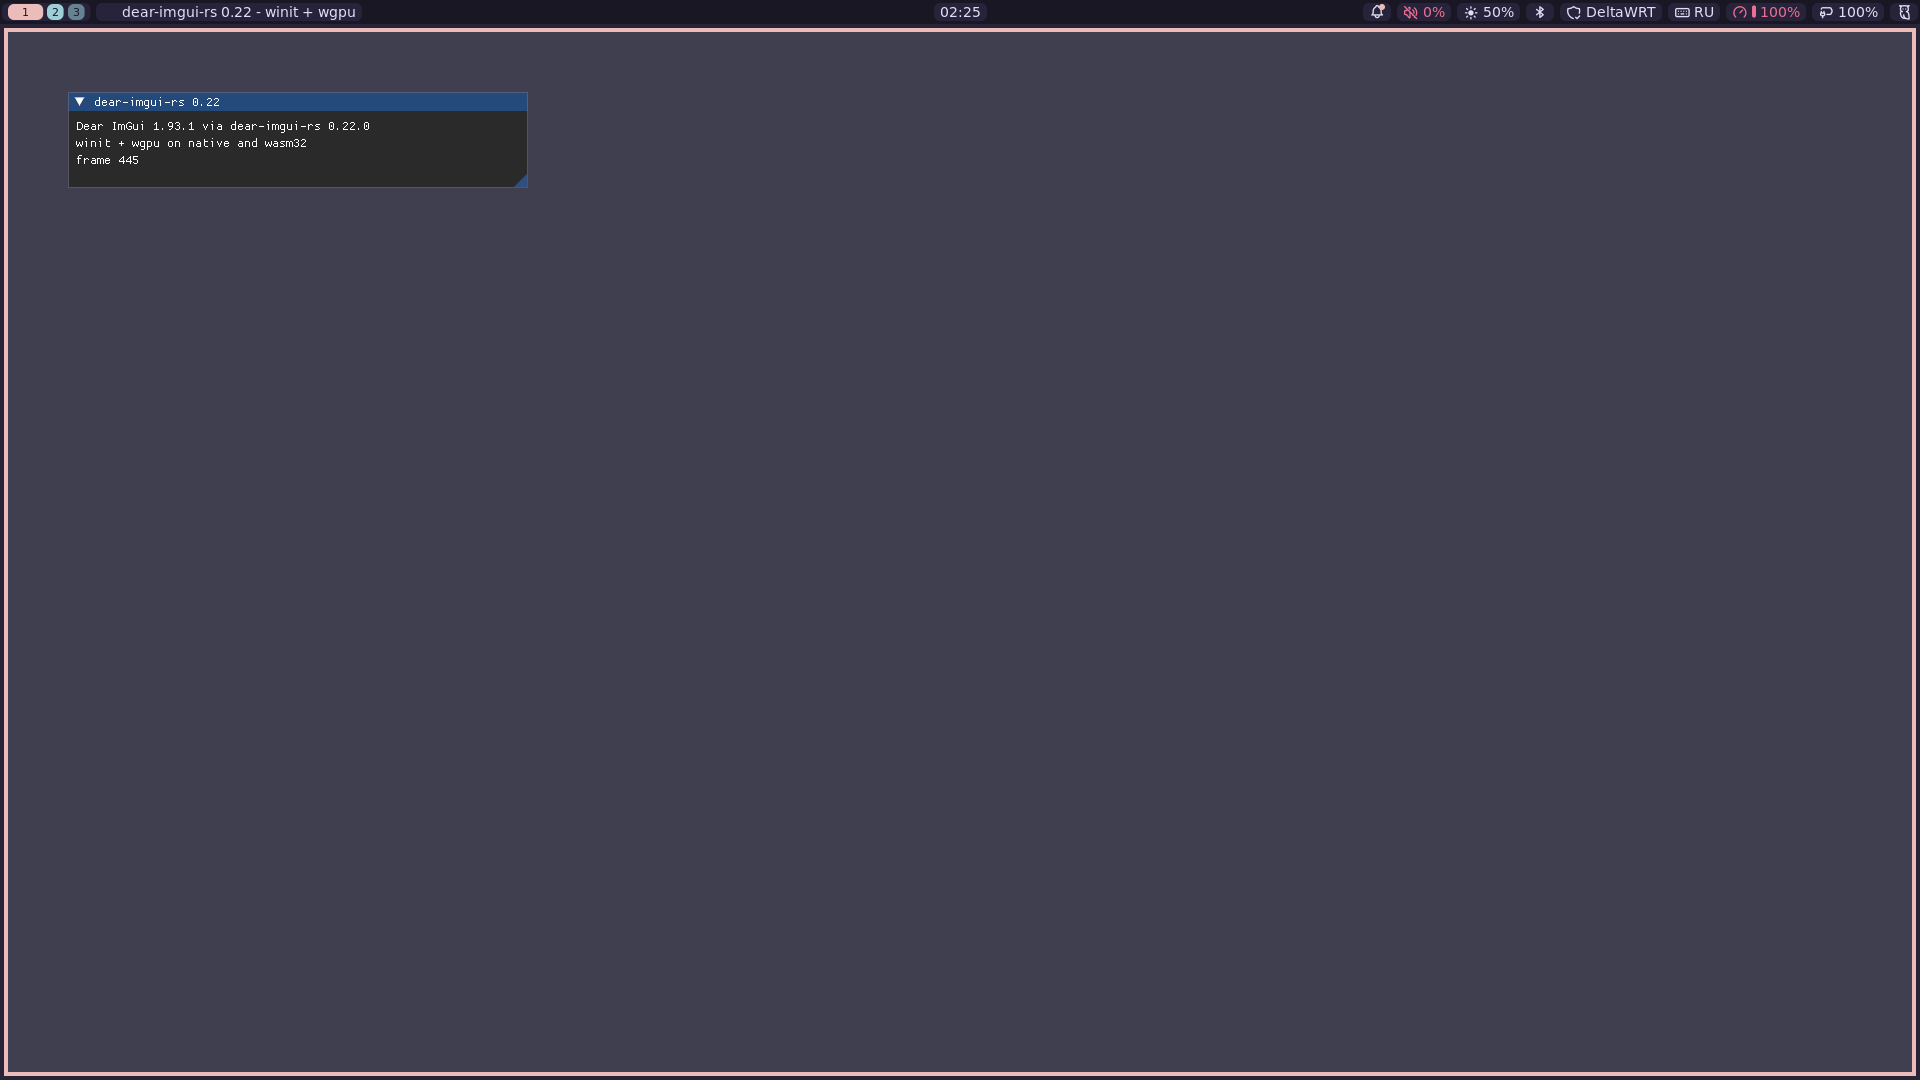
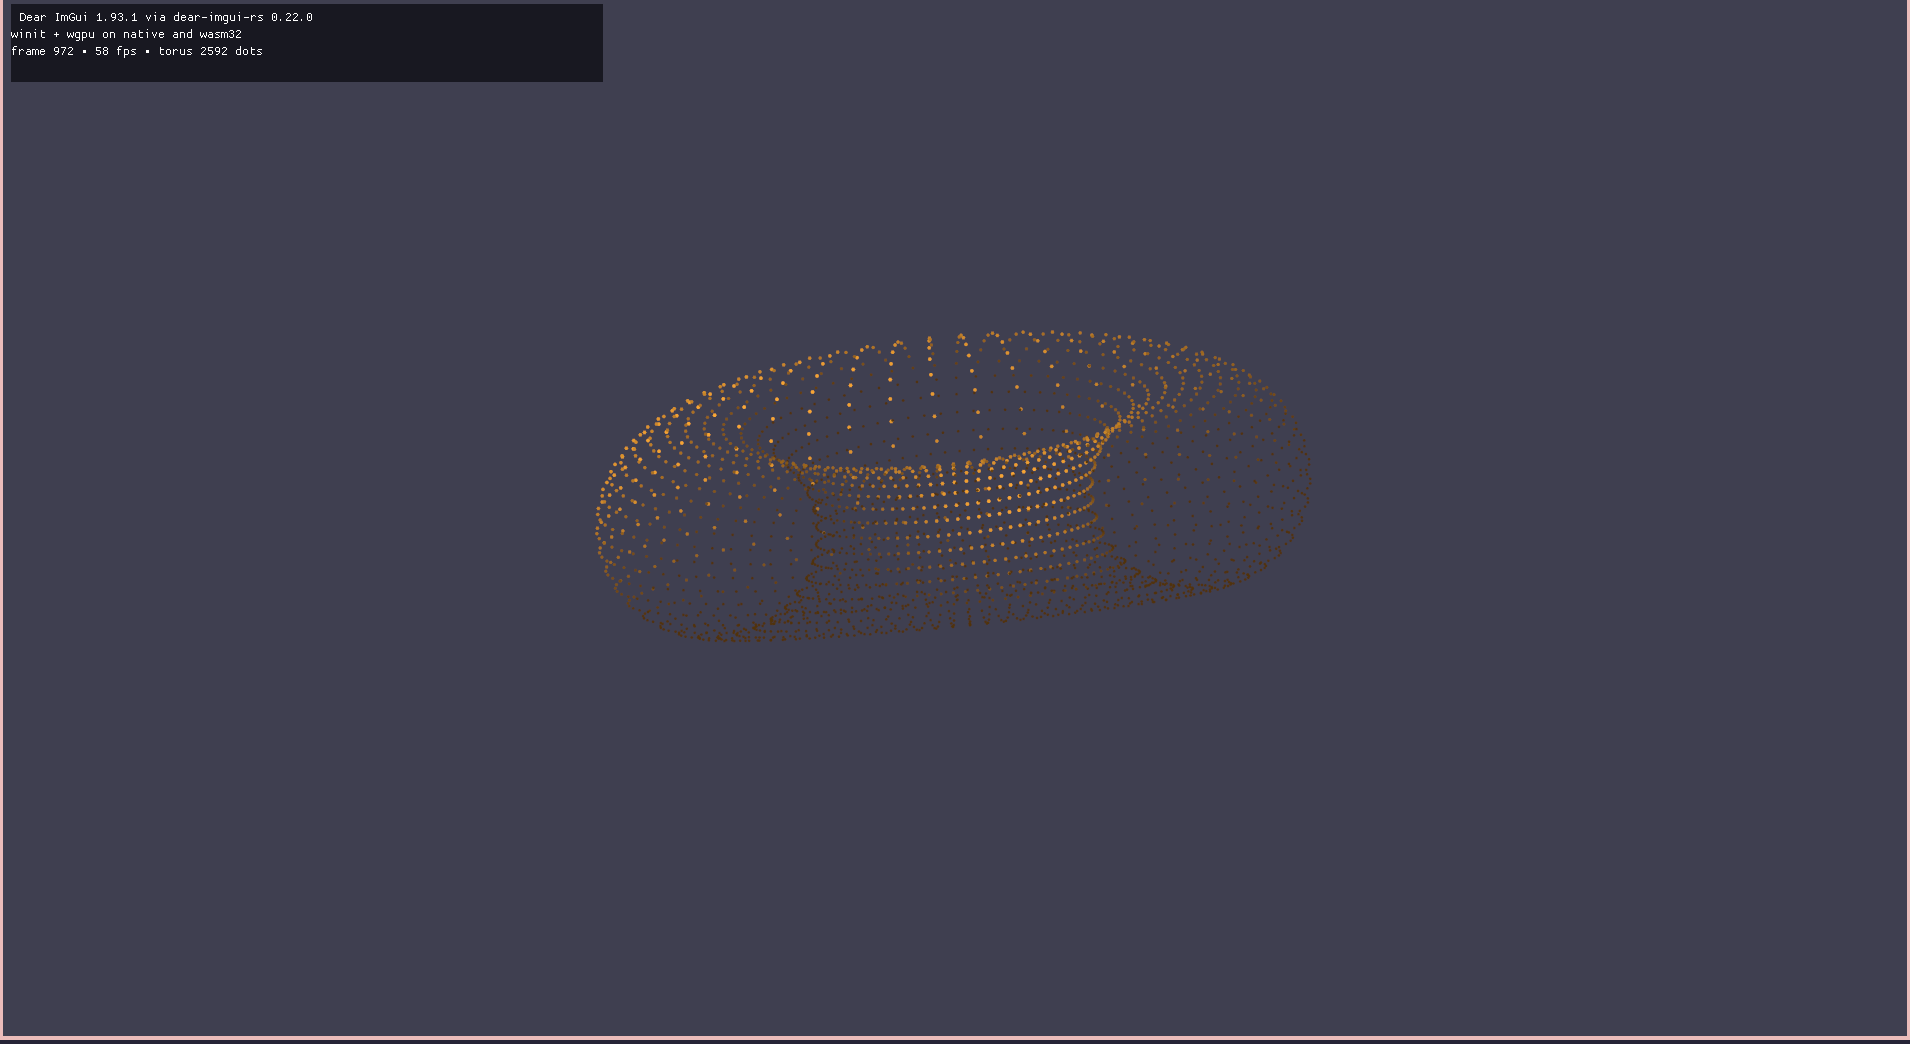
feat: spinning torus render test on native and wasm draw lists

Changed region(s): [[0.0, 0.0, 1.0, 1.0], [0.3089, 0.3372, 0.6487, 0.613], [0.4016, 0.3372, 0.4325, 0.3678]]

diff --git a/src/lib.rs b/src/lib.rs
@@ -12,7 +12,7 @@ use web_time::Instant;
 #[cfg(not(target_arch = "wasm32"))]
 use std::time::Instant;
 
-use dear_imgui_rs::Context;
+use dear_imgui_rs::{Color, Condition, Context, Ui, WindowFlags};
 use dear_imgui_wgpu::wgpu;
 use dear_imgui_wgpu::{FramebufferExtent, WgpuInitInfo, WgpuRenderer};
 use dear_imgui_winit::{HiDpiMode, WinitPlatform};
@@ -23,6 +23,132 @@ use winit::event_loop::{ActiveEventLoop, EventLoop};
 use winit::window::{Window, WindowId};
 
 type AnyError = Box<dyn std::error::Error>;
+
+const TORUS_MAJOR: f32 = 1.0;
+const TORUS_MINOR: f32 = 0.42;
+const TORUS_THETA: usize = 72;
+const TORUS_PHI: usize = 36;
+
+#[cfg(test)]
+fn torus_point(theta: f32, phi: f32) -> [f32; 3] {
+    let ring = TORUS_MAJOR + TORUS_MINOR * phi.cos();
+    [ring * theta.cos(), TORUS_MINOR * phi.sin(), ring * theta.sin()]
+}
+
+#[cfg(test)]
+fn torus_normal(theta: f32, phi: f32) -> [f32; 3] {
+    [
+        phi.cos() * theta.cos(),
+        phi.sin(),
+        phi.cos() * theta.sin(),
+    ]
+}
+
+#[cfg(test)]
+fn rotate_x([x, y, z]: [f32; 3], angle: f32) -> [f32; 3] {
+    let (sin, cos) = angle.sin_cos();
+    [x, y * cos - z * sin, y * sin + z * cos]
+}
+
+#[cfg(test)]
+fn rotate_y([x, y, z]: [f32; 3], angle: f32) -> [f32; 3] {
+    let (sin, cos) = angle.sin_cos();
+    [x * cos + z * sin, y, -x * sin + z * cos]
+}
+
+#[inline]
+fn rotate_x_cached([x, y, z]: [f32; 3], sin: f32, cos: f32) -> [f32; 3] {
+    [x, y * cos - z * sin, y * sin + z * cos]
+}
+
+#[inline]
+fn rotate_y_cached([x, y, z]: [f32; 3], sin: f32, cos: f32) -> [f32; 3] {
+    [x * cos + z * sin, y, -x * sin + z * cos]
+}
+
+/// Spinning torus rendered through the ImGui draw list. This exercises the full
+/// draw-list -> renderer path on both native and wasm without extra GPU pipelines.
+fn draw_torus(ui: &Ui, time: f32) {
+    let [width, height] = ui.io().display_size();
+    if width < 64.0 || height < 64.0 {
+        return;
+    }
+    let center = [width * 0.5, height * 0.5];
+    let scale = width.min(height) * 0.30;
+    let (rot_x_sin, rot_x_cos) = (time * 0.55).sin_cos();
+    let (rot_y_sin, rot_y_cos) = (time * 0.9).sin_cos();
+    let light = [-0.45_f32, 0.55, -0.70];
+    let theta_table: Vec<(f32, f32)> = (0..TORUS_THETA)
+        .map(|index| {
+            let theta = index as f32 / TORUS_THETA as f32 * std::f32::consts::TAU;
+            theta.sin_cos()
+        })
+        .collect();
+    let phi_table: Vec<(f32, f32)> = (0..TORUS_PHI)
+        .map(|index| {
+            let phi = index as f32 / TORUS_PHI as f32 * std::f32::consts::TAU;
+            phi.sin_cos()
+        })
+        .collect();
+
+    let mut dots = Vec::with_capacity(TORUS_THETA * TORUS_PHI);
+    for &(theta_sin, theta_cos) in &theta_table {
+        for &(phi_sin, phi_cos) in &phi_table {
+            let point = rotate_y_cached(
+                rotate_x_cached(
+                    [
+                        (TORUS_MAJOR + TORUS_MINOR * phi_cos) * theta_cos,
+                        TORUS_MINOR * phi_sin,
+                        (TORUS_MAJOR + TORUS_MINOR * phi_cos) * theta_sin,
+                    ],
+                    rot_x_sin,
+                    rot_x_cos,
+                ),
+                rot_y_sin,
+                rot_y_cos,
+            );
+            let normal = rotate_y_cached(
+                rotate_x_cached(
+                    [phi_cos * theta_cos, phi_sin, phi_cos * theta_sin],
+                    rot_x_sin,
+                    rot_x_cos,
+                ),
+                rot_y_sin,
+                rot_y_cos,
+            );
+            let perspective = 3.2 / (point[2] + 4.2);
+            let light_dot = (normal[0] * light[0]
+                + normal[1] * light[1]
+                + normal[2] * light[2])
+                .max(0.0);
+            let shade = 0.32 + 0.68 * light_dot.powf(1.3);
+            dots.push((
+                [
+                    center[0] + point[0] * perspective * scale,
+                    center[1] - point[1] * perspective * scale,
+                ],
+                point[2],
+                shade,
+            ));
+        }
+    }
+    dots.sort_by(|left, right| left.1.total_cmp(&right.1));
+
+    let draw_list = ui.get_window_draw_list();
+    for ([x, y], _, shade) in dots {
+        let color = Color::from_rgba_bytes(
+            (255.0 * shade) as u8,
+            (170.0 * shade) as u8,
+            (55.0 * shade) as u8,
+            245,
+        );
+        draw_list
+            .add_circle([x, y], 1.3 + 0.7 * shade, color)
+            .filled(true)
+            .num_segments(std::num::NonZeroUsize::new(6).unwrap())
+            .build();
+    }
+}
 
 struct DemoState {
     context: Context,
@@ -35,6 +161,7 @@ struct DemoState {
     window: Arc<Window>,
     frames: u64,
     last_frame_at: Instant,
+    started_at: Instant,
 }
 
 impl DemoState {
@@ -109,6 +236,7 @@ impl DemoState {
             window,
             frames: 0,
             last_frame_at: Instant::now(),
+            started_at: Instant::now(),
         })
     }
 
@@ -143,15 +271,45 @@ impl DemoState {
             .prepare_frame(&mut self.context, &self.window)?;
 
         let frames = self.frames;
+        if frames == 0 {
+            self.started_at = Instant::now();
+        }
+        let elapsed = self.started_at.elapsed().as_secs_f32();
         let consumer = self.renderer.renderer_consumer()?;
         let frame = {
             let ui = &*self.context.frame();
-            ui.window("dear-imgui-rs 0.22")
-                .size([460.0, 96.0], dear_imgui_rs::Condition::FirstUseEver)
+            let [width, height] = ui.io().display_size();
+            let flags = WindowFlags::NO_DECORATION
+                | WindowFlags::NO_BACKGROUND
+                | WindowFlags::NO_MOVE
+                | WindowFlags::NO_RESIZE
+                | WindowFlags::NO_SCROLLBAR
+                | WindowFlags::NO_SAVED_SETTINGS
+                | WindowFlags::NO_INPUTS
+                | WindowFlags::NO_FOCUS_ON_APPEARING
+                | WindowFlags::NO_NAV;
+            ui.window("canvas")
+                .size([width, height], Condition::Always)
+                .position([0.0, 0.0], Condition::Always)
+                .flags(flags)
                 .build(|| {
+                    draw_torus(ui, elapsed);
+                    ui.get_window_draw_list()
+                        .add_rect(
+                            [8.0, 8.0],
+                            [600.0, 86.0],
+                            Color::from_rgba_bytes(8, 8, 14, 210),
+                        )
+                        .filled(true)
+                        .build();
+                    ui.set_cursor_pos([16.0, 14.0]);
                     ui.text("Dear ImGui 1.93.1 via dear-imgui-rs 0.22.0");
                     ui.text("winit + wgpu on native and wasm32");
-                    ui.text(format!("frame {frames}"));
+                    let fps = frames as f32 / elapsed.max(0.001);
+                    ui.text(format!(
+                        "frame {frames} · {fps:.0} fps · torus {} dots",
+                        TORUS_THETA * TORUS_PHI
+                    ));
                 });
             self.context.render(consumer)
         };
@@ -340,4 +498,40 @@ pub fn start() -> Result<(), wasm_bindgen::JsValue> {
     log::info!("wasm start: spawning app");
     event_loop.spawn_app(DemoApp::new());
     Ok(())
+}
+
+#[cfg(test)]
+mod tests {
+    use super::*;
+
+    #[test]
+    fn torus_surface_points_and_normals_are_bounded() {
+        for i in 0..32 {
+            let theta = i as f32 / 32.0 * std::f32::consts::TAU;
+            for j in 0..16 {
+                let phi = j as f32 / 16.0 * std::f32::consts::TAU;
+                let point = torus_point(theta, phi);
+                let ring = (point[0] * point[0] + point[2] * point[2]).sqrt();
+                assert!(ring >= TORUS_MAJOR - TORUS_MINOR - 1e-4);
+                assert!(ring <= TORUS_MAJOR + TORUS_MINOR + 1e-4);
+                assert!(point[1].abs() <= TORUS_MINOR + 1e-4);
+
+                let normal = torus_normal(theta, phi);
+                let length =
+                    (normal[0] * normal[0] + normal[1] * normal[1] + normal[2] * normal[2])
+                        .sqrt();
+                assert!((length - 1.0).abs() < 1e-4);
+            }
+        }
+    }
+
+    #[test]
+    fn rotations_preserve_length() {
+        let point = torus_point(0.3, 1.7);
+        let length = |value: [f32; 3]| {
+            (value[0] * value[0] + value[1] * value[1] + value[2] * value[2]).sqrt()
+        };
+        let rotated = rotate_y(rotate_x(point, 0.7), 1.3);
+        assert!((length(point) - length(rotated)).abs() < 1e-4);
+    }
 }

diff --git a/README.md b/README.md
@@ -1,6 +1,6 @@
 # dear-imgui-rs 0.22 minimal demo
 
-One Dear ImGui window, two targets:
+A spinning torus drawn through the Dear ImGui draw list, on two targets:
 
 1. Native `winit` + `wgpu` window.
 2. `wasm32-unknown-unknown` build running in a browser on WebGL2.
@@ -40,7 +40,23 @@ nix develop -c cargo run
 ```
 
 `WinitPlatform::prepare_frame`, `Context::frame`, `Context::render` and `WgpuRenderer::render`
-run every frame; the renderer is shut down explicitly before the context is dropped.
+run every frame; the renderer is shut down explicitly before the context is dropped. The torus
+runs at 58 fps in a debug build at 1904x1040 on the integrated GPU.
+
+## Render test: spinning torus
+
+`draw_torus` projects a 72x36 parametric torus (2592 points) every frame, shades the points by a
+directional light, sorts them back-to-front, and emits one filled circle per point into the
+ImGui draw list. It exercises per-frame draw-list generation, text, and renderer submission
+without an application-owned GPU pipeline. Rotation angles come from `Instant`, and the overlay
+shows frame count, fps, and point count.
+
+The browser constraint: wgpu's WebGL backend in `glow 0.17` panics on
+`draw_elements_instanced_base_vertex`, which it needs for ImGui draw commands whose vertex
+offset is non-zero. Consequently the whole UI is a single full-display ImGui window with a
+single `ImDrawCmd`; adding a second window or a background draw list makes Chromium fail with
+`Draw elements instanced base vertex is not supported`. Keep the browser UI to one draw command
+until this is fixed upstream.
 
 ## wasm32 (browser)
 
@@ -72,8 +88,8 @@ Runtime wiring:
    `Limits::downlevel_webgl2_defaults().using_resolution(...)`, which the browser requires
    (the default limits request `max_compute_workgroups_per_dimension = 65535`).
 
-Verified in Chromium: continuous rendering, frame counter increasing (572 -> 840 between two
-screenshots). Headless verification needs SwiftShader:
+Verified in Chromium: the torus renders, the frame counter advances, and a real window sustains
+continuous redraws. Headless verification needs SwiftShader:
 
 ```sh
 nix run nixpkgs#chromium -- --headless=new --no-sandbox \
